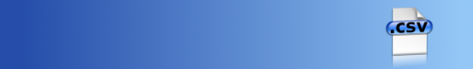
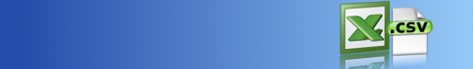
Export section created

Changed region(s): [[0.7104, 0.0, 0.9175, 1.0]]

diff --git a/PFC-SAGT v1.0.215/GUI_TG/GUI_TG/FormPrincipal.Designer.cs b/PFC-SAGT v1.0.215/GUI_TG/GUI_TG/FormPrincipal.Designer.cs
@@ -120,6 +120,8 @@
             this.tsmiDataOmitLevels = new System.Windows.Forms.ToolStripMenuItem();
             this.tsmiBuildMeans = new System.Windows.Forms.ToolStripMenuItem();
             this.tsmiDataToSSQ = new System.Windows.Forms.ToolStripMenuItem();
+            this.tsmiDataExport = new System.Windows.Forms.ToolStripMenuItem();
+            this.tsmiExportCsv = new System.Windows.Forms.ToolStripMenuItem();
             this.tsmiDataExportExcel = new System.Windows.Forms.ToolStripMenuItem();
             this.tsmiExportScore = new System.Windows.Forms.ToolStripMenuItem();
             this.tsmiDataReports = new System.Windows.Forms.ToolStripMenuItem();
@@ -282,6 +284,7 @@
             this.lbAnalysisMeasurDesignSsq = new System.Windows.Forms.Label();
             this.tabPageAnalysisG_P = new System.Windows.Forms.TabPage();
             this.lbAnalysisTotalTargetVar = new System.Windows.Forms.Label();
+            this.lbAnalysisTextCoef_G_Rel = new System.Windows.Forms.Label();
             this.lbAnalysisTextCoef_G_Abs = new System.Windows.Forms.Label();
             this.lbAnalysisTextAbsoluteSE = new System.Windows.Forms.Label();
             this.lbAnalysisTotalAbsErr = new System.Windows.Forms.Label();
@@ -295,7 +298,6 @@
             this.lbAnalysisTextStandDev = new System.Windows.Forms.Label();
             this.lbAnalysisCoef_G_Abs = new System.Windows.Forms.Label();
             this.lbAnalysisCoef_G_Rel = new System.Windows.Forms.Label();
-            this.lbAnalysisTextCoef_G_Rel = new System.Windows.Forms.Label();
             this.lbAnalysisTextGeneralizabilityCoef = new System.Windows.Forms.Label();
             this.lbAnalysisTotal_Error_Abs = new System.Windows.Forms.Label();
             this.lbAnalysisTotal_Error_Rel = new System.Windows.Forms.Label();
@@ -657,8 +659,7 @@
             this.tsmiDataOmitLevels,
             this.tsmiBuildMeans,
             this.tsmiDataToSSQ,
-            this.tsmiDataExportExcel,
-            this.tsmiExportScore,
+            this.tsmiDataExport,
             this.tsmiDataReports,
             this.tsmiDataClose});
             this.mStripData.LayoutStyle = System.Windows.Forms.ToolStripLayoutStyle.VerticalStackWithOverflow;
@@ -666,7 +667,7 @@
             this.mStripData.MaximumSize = new System.Drawing.Size(175, 0);
             this.mStripData.Name = "mStripData";
             this.mStripData.Padding = new System.Windows.Forms.Padding(4, 2, 0, 2);
-            this.mStripData.Size = new System.Drawing.Size(175, 476);
+            this.mStripData.Size = new System.Drawing.Size(175, 459);
             this.mStripData.TabIndex = 2;
             this.mStripData.Text = "menuStrip1";
             // 
@@ -698,7 +699,7 @@
             // 
             this.tsmiDataOpenLocal.Image = global::GUI_GT.Properties.Resources.Dossiers_lecteurs_CD;
             this.tsmiDataOpenLocal.Name = "tsmiDataOpenLocal";
-            this.tsmiDataOpenLocal.Size = new System.Drawing.Size(204, 22);
+            this.tsmiDataOpenLocal.Size = new System.Drawing.Size(208, 26);
             this.tsmiDataOpenLocal.Text = "Abrir";
             this.tsmiDataOpenLocal.Click += new System.EventHandler(this.tsmiDataOpenLocal_Click);
             // 
@@ -706,7 +707,7 @@
             // 
             this.tsmiDataOpenWebService.Image = global::GUI_GT.Properties.Resources.Folder_net_h128;
             this.tsmiDataOpenWebService.Name = "tsmiDataOpenWebService";
-            this.tsmiDataOpenWebService.Size = new System.Drawing.Size(204, 22);
+            this.tsmiDataOpenWebService.Size = new System.Drawing.Size(208, 26);
             this.tsmiDataOpenWebService.Text = "Abrir desde servicio Web";
             this.tsmiDataOpenWebService.Click += new System.EventHandler(this.tsmiDataOpenWebService_Click);
             // 
@@ -738,7 +739,7 @@
             // 
             this.tsmiDataSavedLocal.Image = global::GUI_GT.Properties.Resources.Floppy_Disk_h22x22;
             this.tsmiDataSavedLocal.Name = "tsmiDataSavedLocal";
-            this.tsmiDataSavedLocal.Size = new System.Drawing.Size(129, 22);
+            this.tsmiDataSavedLocal.Size = new System.Drawing.Size(184, 26);
             this.tsmiDataSavedLocal.Text = "Guardar";
             this.tsmiDataSavedLocal.Click += new System.EventHandler(this.tsmiDataSavedLocal_Click);
             // 
@@ -746,7 +747,7 @@
             // 
             this.tsmiDataSavedWebService.Image = global::GUI_GT.Properties.Resources.Connect_48x48;
             this.tsmiDataSavedWebService.Name = "tsmiDataSavedWebService";
-            this.tsmiDataSavedWebService.Size = new System.Drawing.Size(129, 22);
+            this.tsmiDataSavedWebService.Size = new System.Drawing.Size(184, 26);
             this.tsmiDataSavedWebService.Text = "Guardado ";
             this.tsmiDataSavedWebService.Click += new System.EventHandler(this.tsmiDataSavedWebService_Click);
             // 
@@ -805,26 +806,42 @@
             this.tsmiDataToSSQ.TextAlign = System.Drawing.ContentAlignment.MiddleLeft;
             this.tsmiDataToSSQ.Click += new System.EventHandler(this.tsmiDataToSSQ_Click);
             // 
+            // tsmiDataExport
+            // 
+            this.tsmiDataExport.DropDownItems.AddRange(new System.Windows.Forms.ToolStripItem[] {
+            this.tsmiExportCsv,
+            this.tsmiDataExportExcel,
+            this.tsmiExportScore});
+            this.tsmiDataExport.Image = global::GUI_GT.Properties.Resources.Export_h32;
+            this.tsmiDataExport.ImageAlign = System.Drawing.ContentAlignment.MiddleLeft;
+            this.tsmiDataExport.ImageScaling = System.Windows.Forms.ToolStripItemImageScaling.None;
+            this.tsmiDataExport.Name = "tsmiDataExport";
+            this.tsmiDataExport.Size = new System.Drawing.Size(170, 36);
+            this.tsmiDataExport.Text = "Exportar";
+            this.tsmiDataExport.TextAlign = System.Drawing.ContentAlignment.MiddleLeft;
+            // 
+            // tsmiExportCsv
+            // 
+            this.tsmiExportCsv.Image = global::GUI_GT.Properties.Resources.csv_22;
+            this.tsmiExportCsv.Name = "tsmiExportCsv";
+            this.tsmiExportCsv.Size = new System.Drawing.Size(198, 26);
+            this.tsmiExportCsv.Text = "Exportar CSV";
+            // 
             // tsmiDataExportExcel
             // 
             this.tsmiDataExportExcel.Image = global::GUI_GT.Properties.Resources.Excel_Document_h32;
-            this.tsmiDataExportExcel.ImageAlign = System.Drawing.ContentAlignment.MiddleLeft;
-            this.tsmiDataExportExcel.ImageScaling = System.Windows.Forms.ToolStripItemImageScaling.None;
             this.tsmiDataExportExcel.Name = "tsmiDataExportExcel";
-            this.tsmiDataExportExcel.Size = new System.Drawing.Size(170, 36);
+            this.tsmiDataExportExcel.Size = new System.Drawing.Size(198, 26);
             this.tsmiDataExportExcel.Text = "Exportar Excel";
-            this.tsmiDataExportExcel.TextAlign = System.Drawing.ContentAlignment.MiddleLeft;
             this.tsmiDataExportExcel.Click += new System.EventHandler(this.tsmiDataExportExcel_Click);
             // 
             // tsmiExportScore
             // 
-            this.tsmiExportScore.Image = global::GUI_GT.Properties.Resources.AQUA_ICONS_FILE_GENERIC_DOCUMENT_1_dat_h32;
-            this.tsmiExportScore.ImageAlign = System.Drawing.ContentAlignment.MiddleLeft;
+            this.tsmiExportScore.Image = global::GUI_GT.Properties.Resources.AQUA_ICONS_FILE_GENERIC_DOCUMENT_1_dat_h22;
             this.tsmiExportScore.ImageScaling = System.Windows.Forms.ToolStripItemImageScaling.None;
             this.tsmiExportScore.Name = "tsmiExportScore";
-            this.tsmiExportScore.Size = new System.Drawing.Size(170, 36);
+            this.tsmiExportScore.Size = new System.Drawing.Size(198, 26);
             this.tsmiExportScore.Text = "Exportar puntuaciones";
-            this.tsmiExportScore.TextAlign = System.Drawing.ContentAlignment.MiddleLeft;
             this.tsmiExportScore.Click += new System.EventHandler(this.tsmiExportScore_Click);
             // 
             // tsmiDataReports
@@ -845,7 +862,7 @@
             // 
             this.tsmiDataPrinter.Image = global::GUI_GT.Properties.Resources.SYSTEM_PRINTERS_h32;
             this.tsmiDataPrinter.Name = "tsmiDataPrinter";
-            this.tsmiDataPrinter.Size = new System.Drawing.Size(120, 22);
+            this.tsmiDataPrinter.Size = new System.Drawing.Size(184, 26);
             this.tsmiDataPrinter.Text = "Imprimir";
             this.tsmiDataPrinter.Click += new System.EventHandler(this.tsmiDataPrinter_Click);
             // 
@@ -853,7 +870,7 @@
             // 
             this.tsmiDataWordExport.Image = global::GUI_GT.Properties.Resources.word8_h32;
             this.tsmiDataWordExport.Name = "tsmiDataWordExport";
-            this.tsmiDataWordExport.Size = new System.Drawing.Size(120, 22);
+            this.tsmiDataWordExport.Size = new System.Drawing.Size(184, 26);
             this.tsmiDataWordExport.Text = "Word";
             this.tsmiDataWordExport.Click += new System.EventHandler(this.tsmiDataWordExport_Click);
             // 
@@ -861,7 +878,7 @@
             // 
             this.tsmiDataPdfExport.Image = global::GUI_GT.Properties.Resources.Adobe_v2_h32;
             this.tsmiDataPdfExport.Name = "tsmiDataPdfExport";
-            this.tsmiDataPdfExport.Size = new System.Drawing.Size(120, 22);
+            this.tsmiDataPdfExport.Size = new System.Drawing.Size(184, 26);
             this.tsmiDataPdfExport.Text = "PDF";
             this.tsmiDataPdfExport.Click += new System.EventHandler(this.tsmiDataPdfExport_Click);
             // 
@@ -3207,6 +3224,18 @@
             this.lbAnalysisTotalTargetVar.TabIndex = 21;
             this.lbAnalysisTotalTargetVar.Text = "Total (Objetivo de la varianza): ";
             // 
+            // lbAnalysisTextCoef_G_Rel
+            // 
+            this.lbAnalysisTextCoef_G_Rel.Anchor = System.Windows.Forms.AnchorStyles.Bottom;
+            this.lbAnalysisTextCoef_G_Rel.AutoSize = true;
+            this.lbAnalysisTextCoef_G_Rel.ImeMode = System.Windows.Forms.ImeMode.NoControl;
+            this.lbAnalysisTextCoef_G_Rel.Location = new System.Drawing.Point(214, 422);
+            this.lbAnalysisTextCoef_G_Rel.Name = "lbAnalysisTextCoef_G_Rel";
+            this.lbAnalysisTextCoef_G_Rel.Size = new System.Drawing.Size(111, 13);
+            this.lbAnalysisTextCoef_G_Rel.TabIndex = 28;
+            this.lbAnalysisTextCoef_G_Rel.Text = "Coeficiente G relativo:";
+            this.lbAnalysisTextCoef_G_Rel.TextAlign = System.Drawing.ContentAlignment.MiddleRight;
+            // 
             // lbAnalysisTextCoef_G_Abs
             // 
             this.lbAnalysisTextCoef_G_Abs.Anchor = System.Windows.Forms.AnchorStyles.Bottom;
@@ -3387,18 +3416,6 @@
             this.lbAnalysisCoef_G_Rel.TabIndex = 29;
             this.lbAnalysisCoef_G_Rel.Text = "lbCoef_G_Rel";
             this.lbAnalysisCoef_G_Rel.TextAlign = System.Drawing.ContentAlignment.MiddleRight;
-            // 
-            // lbAnalysisTextCoef_G_Rel
-            // 
-            this.lbAnalysisTextCoef_G_Rel.Anchor = System.Windows.Forms.AnchorStyles.Bottom;
-            this.lbAnalysisTextCoef_G_Rel.AutoSize = true;
-            this.lbAnalysisTextCoef_G_Rel.ImeMode = System.Windows.Forms.ImeMode.NoControl;
-            this.lbAnalysisTextCoef_G_Rel.Location = new System.Drawing.Point(214, 422);
-            this.lbAnalysisTextCoef_G_Rel.Name = "lbAnalysisTextCoef_G_Rel";
-            this.lbAnalysisTextCoef_G_Rel.Size = new System.Drawing.Size(111, 13);
-            this.lbAnalysisTextCoef_G_Rel.TabIndex = 28;
-            this.lbAnalysisTextCoef_G_Rel.Text = "Coeficiente G relativo:";
-            this.lbAnalysisTextCoef_G_Rel.TextAlign = System.Drawing.ContentAlignment.MiddleRight;
             // 
             // lbAnalysisTextGeneralizabilityCoef
             // 
@@ -4265,7 +4282,7 @@
         private System.Windows.Forms.ToolStripMenuItem tsmiDataEditObs;
         private System.Windows.Forms.ToolStripMenuItem tsmiBuildMeans;
         private System.Windows.Forms.ToolStripMenuItem tsmiDataToSSQ;
-        private System.Windows.Forms.ToolStripMenuItem tsmiDataExportExcel;
+        private System.Windows.Forms.ToolStripMenuItem tsmiDataExport;
         private System.Windows.Forms.ToolStripMenuItem tsmiDataClose;
         private System.Windows.Forms.TabControl tabControlData;
         private System.Windows.Forms.TabPage tabPagMultiFacet;
@@ -4438,7 +4455,6 @@
         private System.Windows.Forms.TextBox tbNameProject;
         private System.Windows.Forms.Label lbNameProject;
         private System.Windows.Forms.Label lbDescriptionProject;
-        private System.Windows.Forms.ToolStripMenuItem tsmiExportScore;
         private System.Windows.Forms.ToolStripMenuItem tsmiSSq_ExportSquares;
         private System.Windows.Forms.ToolStripMenuItem tsmiAnalysis_ExportSquares;
         private System.Windows.Forms.Button btImportScores;
@@ -4504,6 +4520,9 @@
         private System.Windows.Forms.CheckBox checkBoxHideNulls;
         private System.Windows.Forms.Button btRemoveNestingEdit;
         private System.Windows.Forms.Button btNestingFacetEdit;
+        private System.Windows.Forms.ToolStripMenuItem tsmiExportCsv;
+        private System.Windows.Forms.ToolStripMenuItem tsmiDataExportExcel;
+        private System.Windows.Forms.ToolStripMenuItem tsmiExportScore;
     }
 }
 

diff --git a/PFC-SAGT v1.0.215/GUI_TG/GUI_TG/Properties/Resources.Designer.cs b/PFC-SAGT v1.0.215/GUI_TG/GUI_TG/Properties/Resources.Designer.cs
@@ -103,6 +103,16 @@ namespace GUI_GT.Properties {
         /// <summary>
         ///   Looks up a localized resource of type System.Drawing.Bitmap.
         /// </summary>
+        internal static System.Drawing.Bitmap AQUA_ICONS_FILE_GENERIC_DOCUMENT_1_dat_h22 {
+            get {
+                object obj = ResourceManager.GetObject("AQUA ICONS FILE GENERIC DOCUMENT 1_dat_h22", resourceCulture);
+                return ((System.Drawing.Bitmap)(obj));
+            }
+        }
+        
+        /// <summary>
+        ///   Looks up a localized resource of type System.Drawing.Bitmap.
+        /// </summary>
         internal static System.Drawing.Bitmap AQUA_ICONS_FILE_GENERIC_DOCUMENT_1_dat_h32 {
             get {
                 object obj = ResourceManager.GetObject("AQUA ICONS FILE GENERIC DOCUMENT 1_dat_h32", resourceCulture);
@@ -493,6 +503,16 @@ namespace GUI_GT.Properties {
         /// <summary>
         ///   Looks up a localized resource of type System.Drawing.Bitmap.
         /// </summary>
+        internal static System.Drawing.Bitmap csv_22 {
+            get {
+                object obj = ResourceManager.GetObject("csv_22", resourceCulture);
+                return ((System.Drawing.Bitmap)(obj));
+            }
+        }
+        
+        /// <summary>
+        ///   Looks up a localized resource of type System.Drawing.Bitmap.
+        /// </summary>
         internal static System.Drawing.Bitmap Datos_Facets_Pencil_h32 {
             get {
                 object obj = ResourceManager.GetObject("Datos_Facets_Pencil_h32", resourceCulture);
@@ -656,6 +676,16 @@ namespace GUI_GT.Properties {
         internal static System.Drawing.Bitmap Excel_Document_h32 {
             get {
                 object obj = ResourceManager.GetObject("Excel Document h32", resourceCulture);
+                return ((System.Drawing.Bitmap)(obj));
+            }
+        }
+        
+        /// <summary>
+        ///   Looks up a localized resource of type System.Drawing.Bitmap.
+        /// </summary>
+        internal static System.Drawing.Bitmap Export_h32 {
+            get {
+                object obj = ResourceManager.GetObject("Export_h32", resourceCulture);
                 return ((System.Drawing.Bitmap)(obj));
             }
         }
